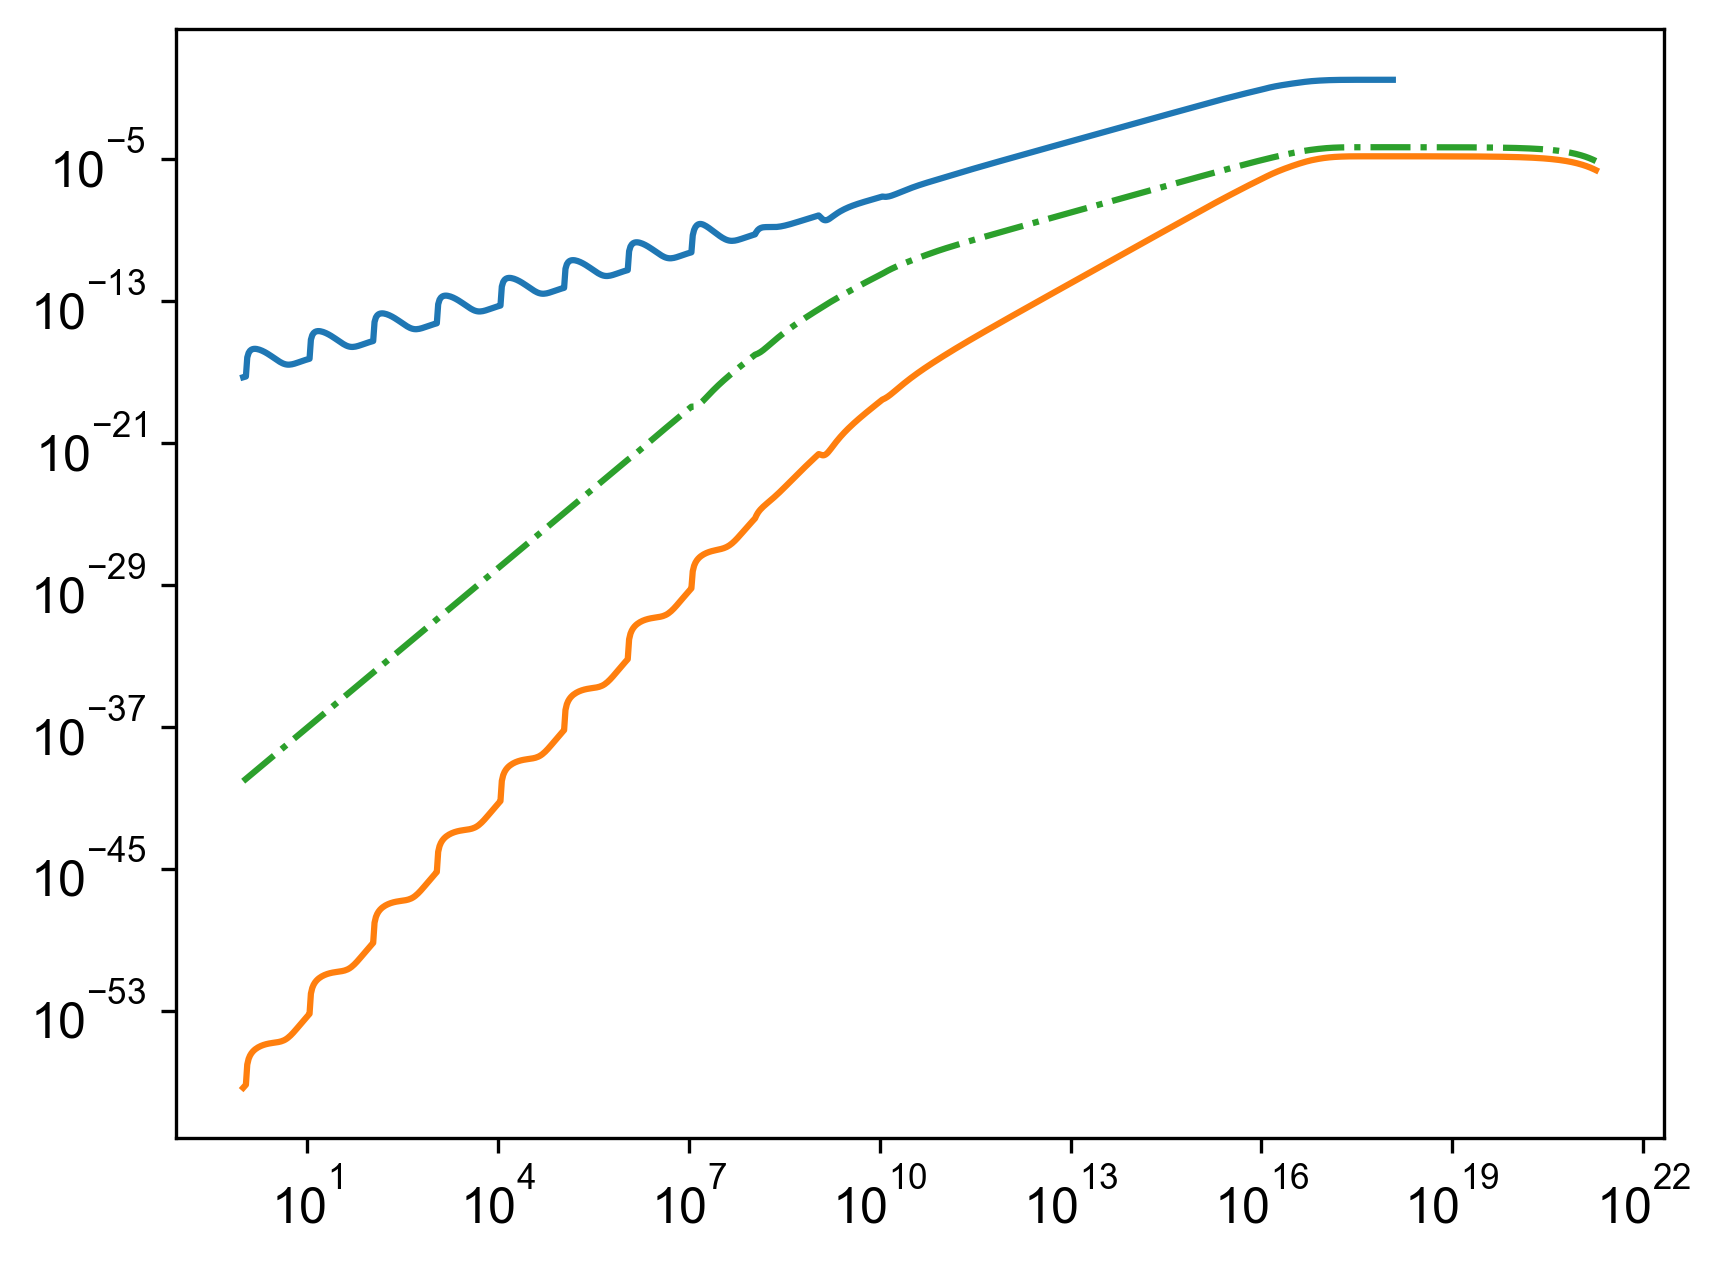
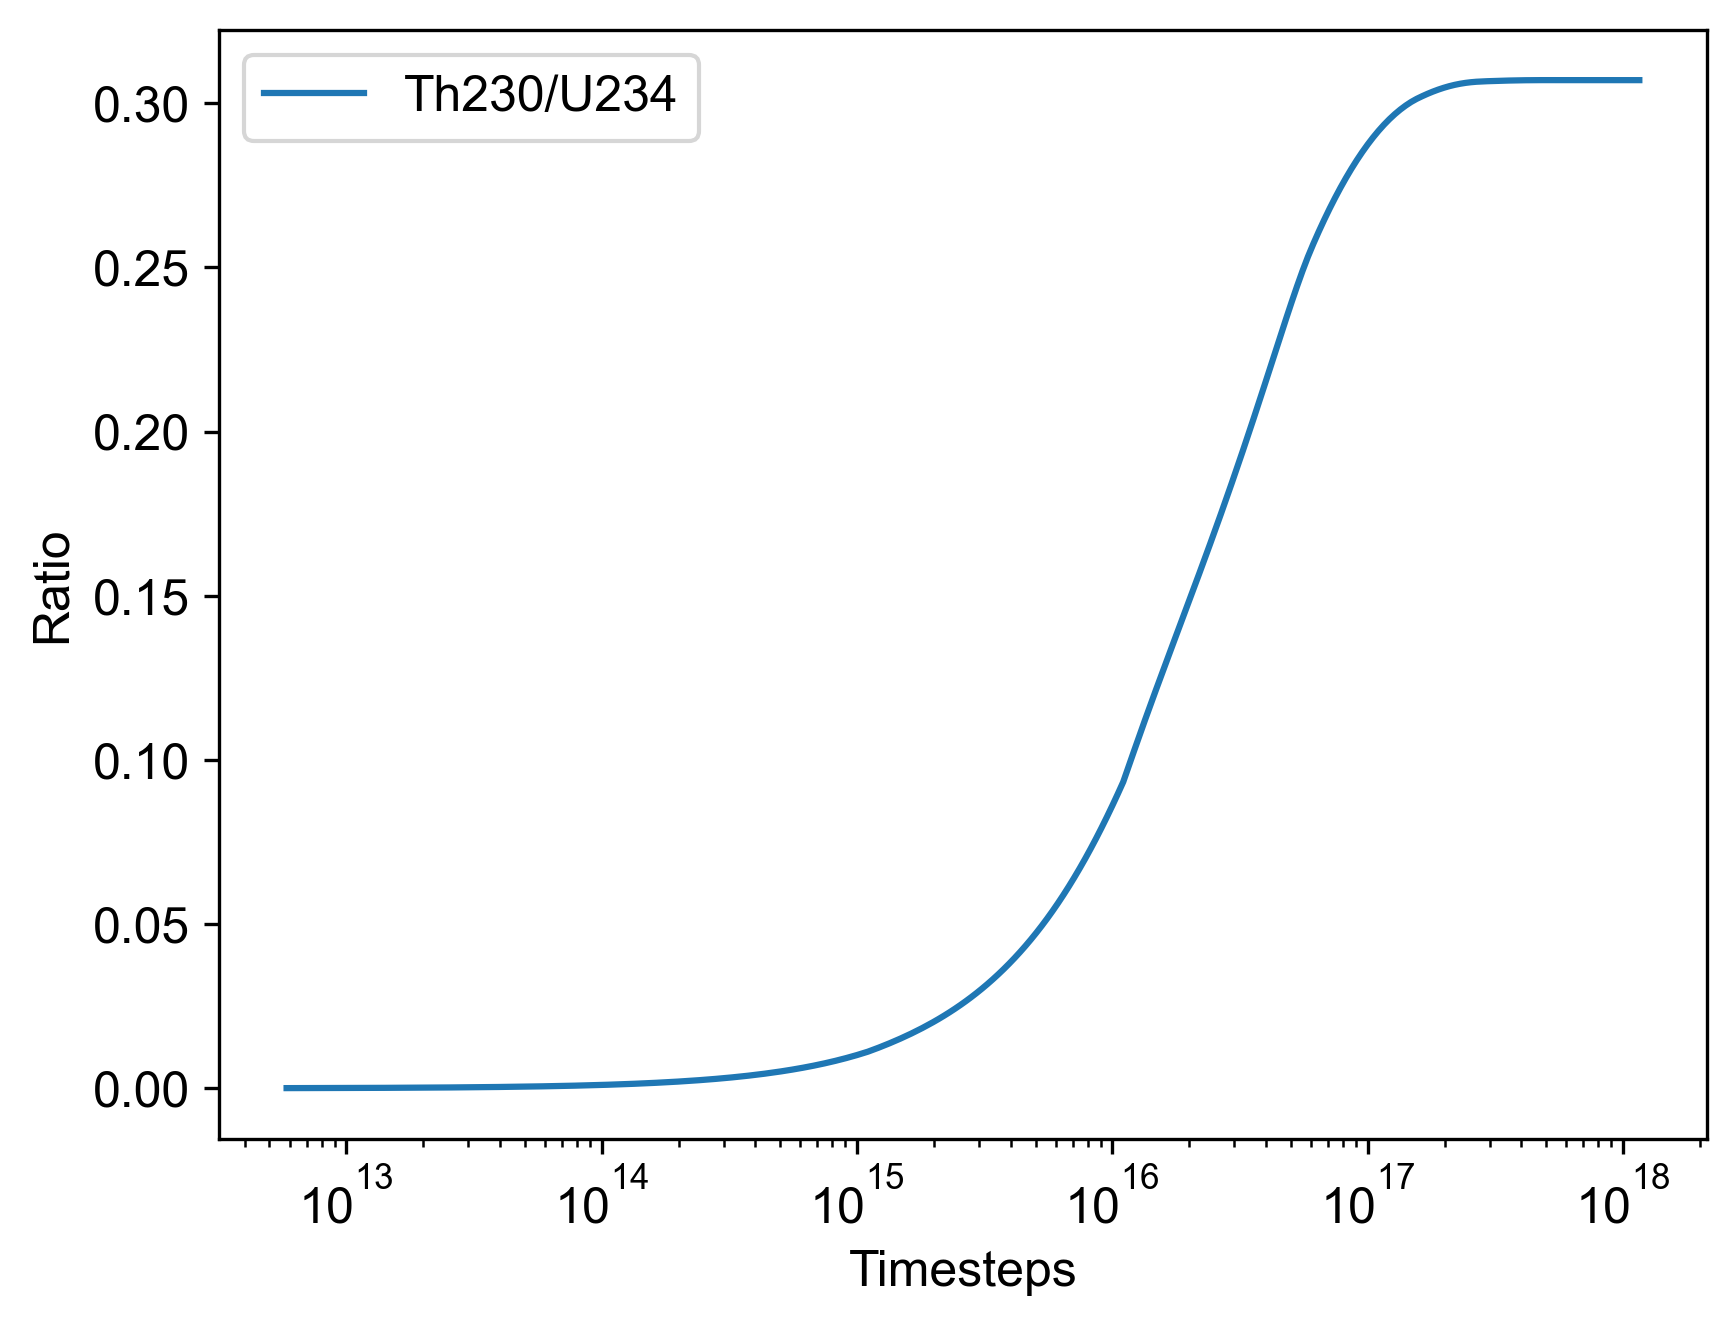
0840

diff --git a/problem_sets/ps3/p32.py b/problem_sets/ps3/p32.py
@@ -15,12 +15,13 @@ ytm = 3.154*10**13/160
 
 #converted to timesteps
 hl = [10**21, 24*dtm, 6.7*htm, 245500*ytm, 75380*ytm, 1600*ytm,
-             38235*dtm, 3.1*mtm, 26.8*mtm, 19.9*mtm, 164.3/160, 22.3*ytm,
+             3.8235*dtm, 3.1*mtm, 26.8*mtm, 19.9*mtm, 164.3/160, 22.3*ytm,
              5.015*ytm, 138.376*dtm]
 
 
 print(len(hl))
 
+# define the function that runs through the lifetime of each step
 def fun(x,y,half_life = hl ):
     dydx = np.zeros(len(half_life)+1)
     dydx[0] = -y[0]/half_life[0]
@@ -29,23 +30,27 @@ def fun(x,y,half_life = hl ):
     dydx[-1] = y[-2]/half_life[-2]
     return dydx
 
+#setting up the initial conditions of the sets of ODEs
 t0 = 0
 t1 = 2*10.**21
 y0 = [0]*(len(hl)+1)
 y0[0] = 1
 
+# setting our timesteps to 1000 points.
 t_ev = np.logspace(0, np.log10(0.9*t1), num = 1000)
-print(t_ev)
 
 t_s = time.time()
 # ans_rk4 = integrate.solve_ivp(fun,[t0,t1],y0,t_eval=t_ev, method = 'RK45')
+# ans_rk2 = integrate.solve_ivp(fun,[t0,t1],y0 ,method = 'RK23')
+# both of those methods take too long to run
 ans_radau = integrate.solve_ivp(fun, [t0,t1], y0 , t_eval=t_ev, method = 'Radau')
-#ans_radau = integrate.solve_ivp(fun,[t0,t1],y0 ,method = 'RK23')
+
 t_en = time.time()
 
-#print(ans_radau.t)
-# print(ans_radau.y[0,-1],ans_radau.y[0],ans_radau.y[14],ans_radau.t)
-# print(t_e - t_s)
+
+print(t_en - t_s)
+
+# extract the number from the output of the ODE solver
 u238 , pb206 = ans_radau.y[0],ans_radau.y[14]
 th230, u234= ans_radau.y[4], ans_radau.y[3]
 t = ans_radau.t
@@ -53,17 +58,25 @@ t = ans_radau.t
 r1 = pb206/u238
 r2 = th230/u234
 
-
-plt.plot(t,r1)
-plt.plot(t,u238)
-plt.plot(t,pb206,'-.')
+# the last 100 points are of our interest
+plt.plot(t[900:],r1[900:],label = 'Pb206/U238')
+plt.plot(t[900:],u238[900:],label = 'U238')
+plt.plot(t[900:],pb206[900:],'-.', label = 'Pb206')
+plt.legend()
+plt.xscale('log')
+plt.xlabel('Timesteps')
+plt.ylabel('Ratio')
 plt.savefig("upb.png",dpi=300, bbox_inches = "tight")
 plt.show()
 
-plt.plot(t[:-150],r2[:-150])
-plt.plot(t,th230)
-plt.plot(t, u234,'-.')
-plt.yscale('log')
+# plot the region of interest
+plt.plot(t[600:-150],r2[600:-150],label = 'Th230/U234')
+#plt.plot(t[600:-150],th230[600:-150])
+#plt.plot(t[600:-150], u234[600:-150],'-.')
+#plt.yscale('log')
 plt.xscale('log')
+plt.xlabel('Timesteps')
+plt.ylabel('Ratio')
+plt.legend()
 plt.savefig("thu.png",dpi=300, bbox_inches = "tight")
 plt.show()
